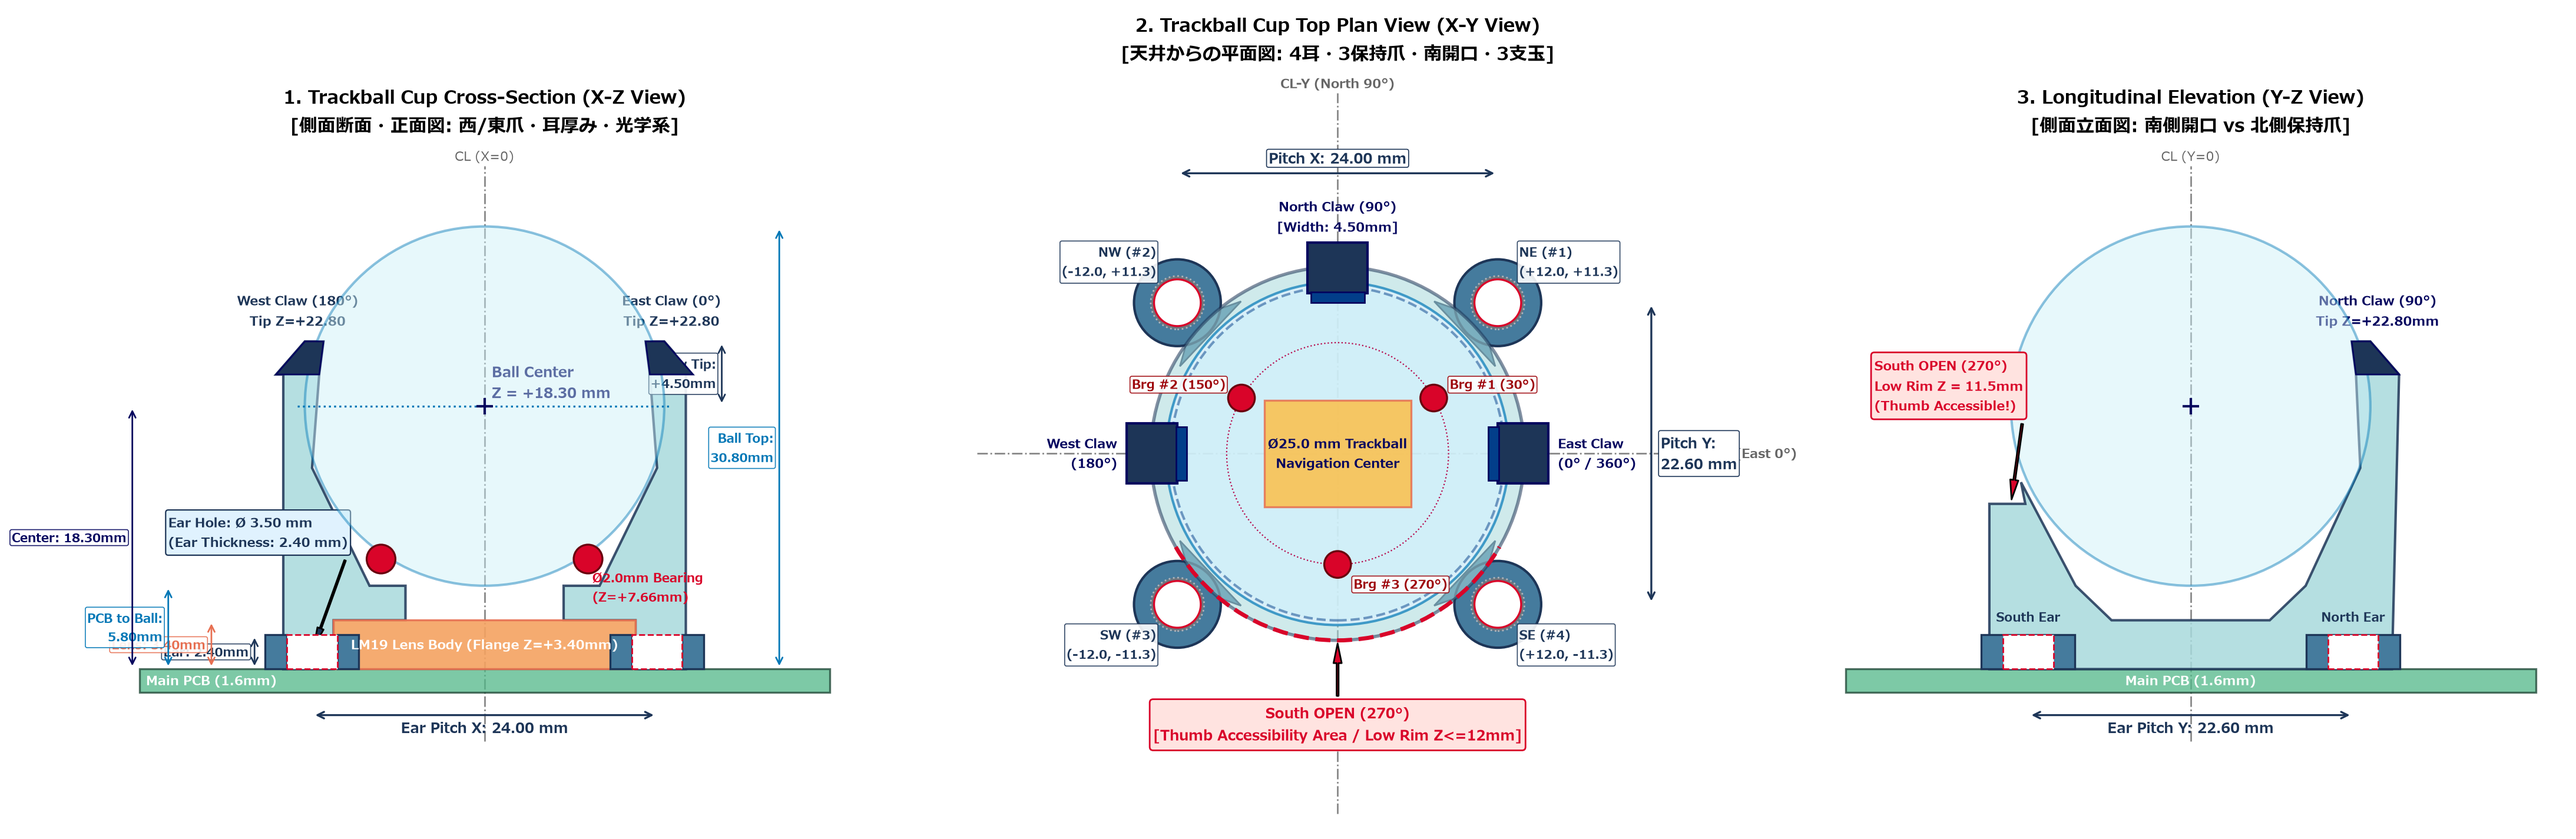
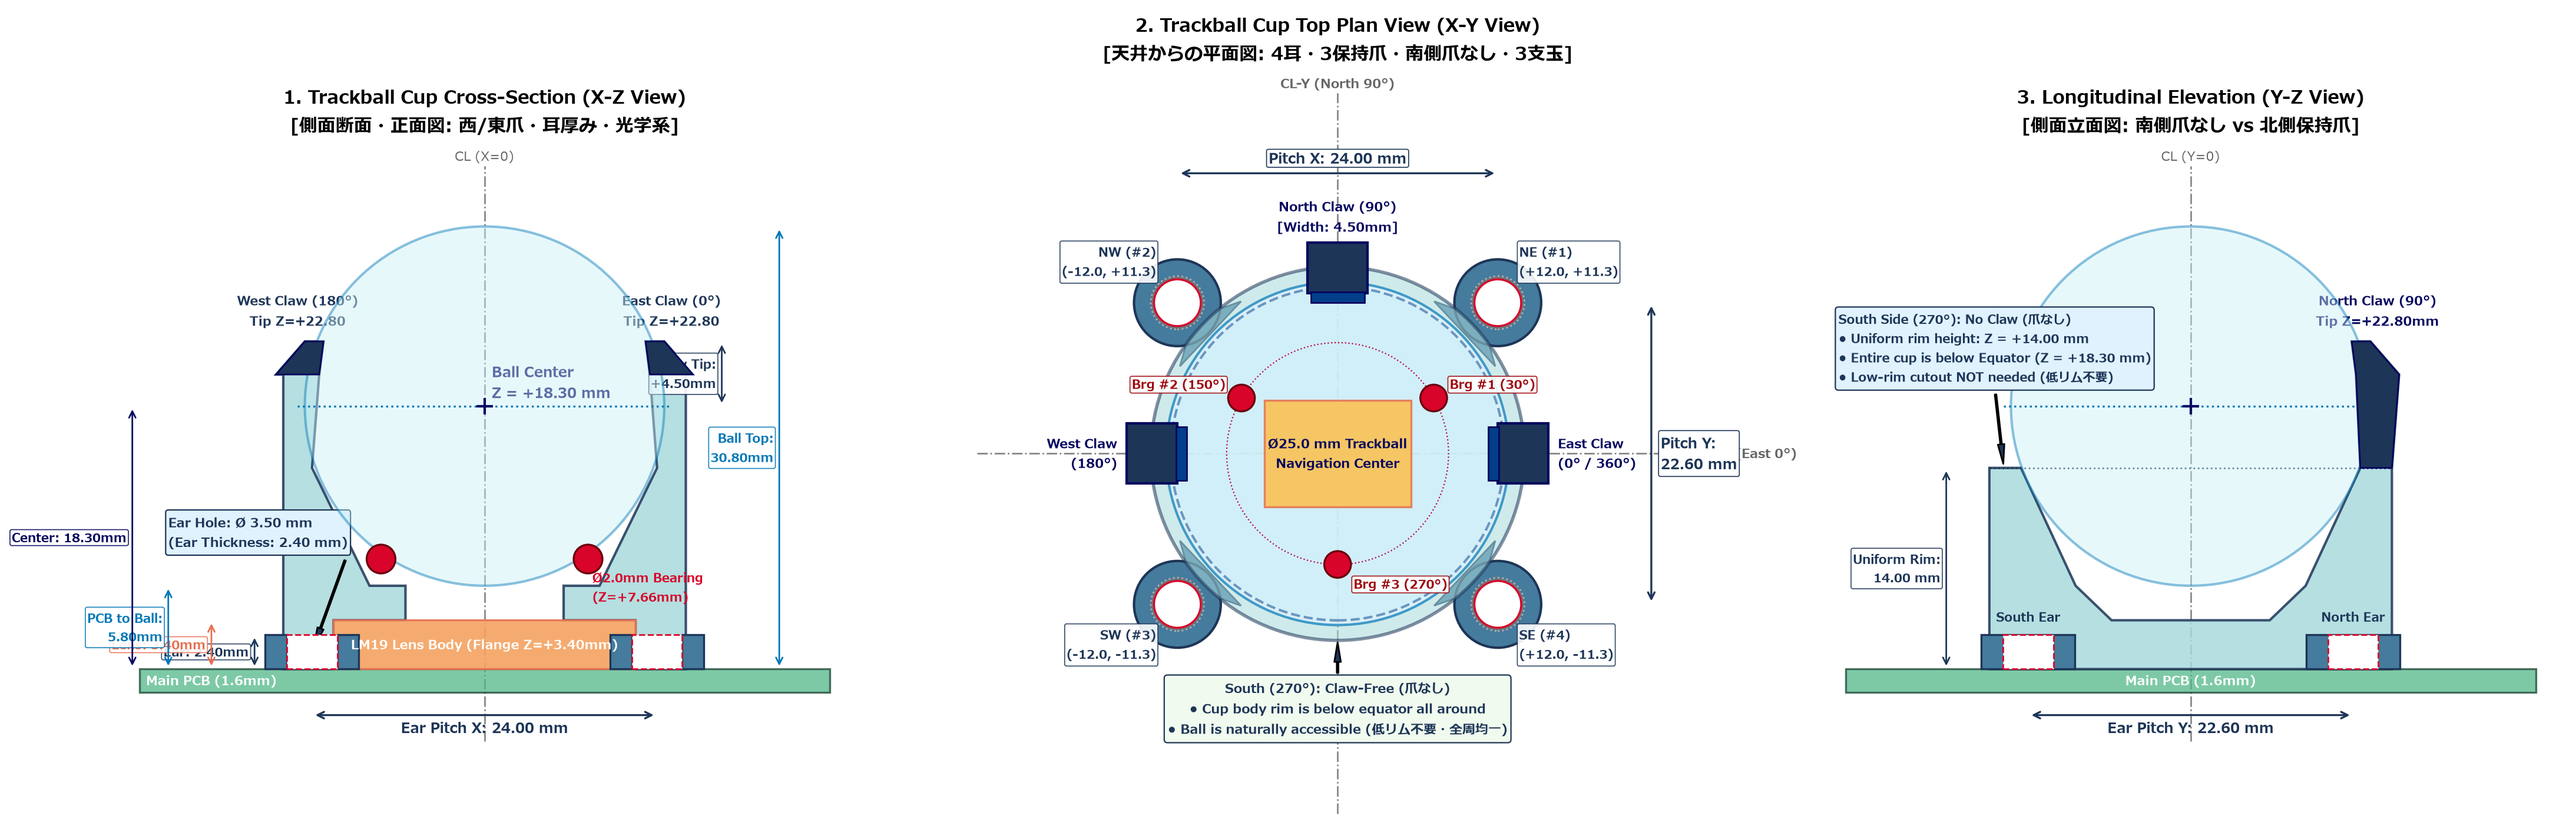
4. トラックボールカップ & 光学系詳細仕様 (Trackball & Optics)

diff --git a/scripts/generate_spec_diagrams.py b/scripts/generate_spec_diagrams.py
@@ -623,14 +623,12 @@ def generate_trackball_cup_detail_drawing():
     ax2.add_patch(lip_w)
     ax2.text(-16.5, 0, "West Claw\n(180°)", ha='right', va='center', fontsize=8, fontweight='bold', color='#03045e')
 
-    # South Open Low-Rim Thumb Area (270°)
-    south_arc = patches.Arc((0, 0), 28.0, 28.0, theta1=210, theta2=330, linewidth=2.5, color='#d90429', linestyle='--', zorder=9)
-    ax2.add_patch(south_arc)
-    ax2.annotate('South OPEN (270°)\n[Thumb Accessibility Area / Low Rim Z<=12mm]',
-                 xy=(0, -14.0), xytext=(0, -21.5),
-                 arrowprops=dict(facecolor='#d90429', shrink=0.05, width=1.2, headwidth=5),
-                 fontsize=8.5, fontweight='bold', color='#d90429', ha='center',
-                 bbox=dict(boxstyle="round,pad=0.25", fc="#ffe3e0", ec="#d90429", lw=1), zorder=10)
+    # South side (270°): No claw needed, cup body naturally sits below equator all around
+    ax2.annotate('South (270°): Claw-Free (爪なし)\n• Cup body rim is below equator all around\n• Ball is naturally accessible (低リム不要・全周均一)',
+                 xy=(0, -14.0), xytext=(0, -21.0),
+                 arrowprops=dict(facecolor='#1d3557', shrink=0.05, width=1.0, headwidth=4),
+                 fontsize=8, fontweight='bold', color='#1d3557', ha='center',
+                 bbox=dict(boxstyle="round,pad=0.25", fc="#f1faee", ec="#1d3557", lw=0.8), zorder=10)
 
     # 3 Ceramic Bearing Balls (30°, 150°, 270°) at R = 8.31mm
     brg_coords = [(7.20, 4.16, "#1 (30°)"), (-7.20, 4.16, "#2 (150°)"), (0.00, -8.31, "#3 (270°)")]
@@ -654,7 +652,7 @@ def generate_trackball_cup_detail_drawing():
     ax2.text(24.2, 0, "Pitch Y:\n22.60 mm", ha='left', va='center', fontsize=8.5, fontweight='bold', color='#1d3557',
              bbox=dict(boxstyle="round,pad=0.15", fc="#ffffff", ec="#1d3557", lw=0.6))
 
-    ax2.set_title("2. Trackball Cup Top Plan View (X-Y View)\n[天井からの平面図: 4耳・3保持爪・南開口・3支玉]", fontsize=11, fontweight='bold', pad=12)
+    ax2.set_title("2. Trackball Cup Top Plan View (X-Y View)\n[天井からの平面図: 4耳・3保持爪・南側爪なし・3支玉]", fontsize=11, fontweight='bold', pad=12)
     ax2.axis('off')
 
     # =========================================================================
@@ -686,19 +684,24 @@ def generate_trackball_cup_detail_drawing():
     ax3.add_patch(ear_n_h)
 
     # Cup Body Profile in Y-Z:
-    # Solid body sitting on PCB (Z=0) from Y=-14 to +14
-    # With South rim trimmed to Z=11.5mm, North claw rising to Z=22.80mm
+    # Cup body has UNIFORM rim height Z = 14.0 mm all around (below Equator Z = 18.30 mm)
+    # North side (+Y) has North Claw rising from Z = 14.0 to Z = 22.80 mm
+    # South side (-Y) stops cleanly at Z = 14.0 mm (No claw!)
     cup_yz_poly = patches.Polygon([
-        (-14.0, 0.0), (-14.0, 11.5), (-11.5, 11.5), (-11.8, 13.0),
+        # South uniform rim (Z = 14.0)
+        (-14.0, 0.0), (-14.0, 14.0), (-11.8, 14.0),
         # Inner bowl profile
         (-8.0, 5.8), (-5.5, 3.4), (5.5, 3.4), (8.0, 5.8),
-        # North high claw side
-        (11.8, 14.0), (11.5, 20.5), (11.2, 22.8), (12.5, 22.8), (14.5, 20.5), (14.0, 0.0)
+        # North side: uniform rim at 14.0, then claw rises to 22.80
+        (11.8, 14.0), (11.5, 20.5), (11.2, 22.8), (12.5, 22.8), (14.5, 20.5), (14.0, 14.0), (14.0, 0.0)
     ], closed=True, edgecolor='#1d3557', facecolor='#a8dadc', alpha=0.85, lw=1.5, zorder=3)
     ax3.add_patch(cup_yz_poly)
 
+    # Uniform rim dashed indicator across cup
+    ax3.plot([-14.0, 14.0], [14.0, 14.0], linestyle=':', color='#1d3557', lw=1.0, zorder=4)
+
     # North Claw highlight
-    claw_n_yz = patches.Polygon([(11.5, 20.5), (11.2, 22.8), (12.5, 22.8), (14.5, 20.5), (14.0, 20.5)],
+    claw_n_yz = patches.Polygon([(11.5, 20.5), (11.2, 22.8), (12.5, 22.8), (14.5, 20.5), (14.0, 14.0), (11.8, 14.0)],
                                 closed=True, edgecolor='#03045e', facecolor='#1d3557', zorder=5)
     ax3.add_patch(claw_n_yz)
     ax3.text(13.0, 23.5, "North Claw (90°)\nTip Z=+22.80mm", ha='center', va='bottom', fontsize=8, fontweight='bold', color='#03045e')
@@ -708,12 +711,21 @@ def generate_trackball_cup_detail_drawing():
     ax3.add_patch(ball_yz)
     ax3.plot([0], [18.30], marker='+', markersize=10, color='#03045e', mew=1.5, zorder=5)
 
-    # South Open Thumb Cutout Callout
-    ax3.annotate('South OPEN (270°)\nLow Rim Z = 11.5mm\n(Thumb Accessible!)',
-                 xy=(-12.5, 11.5), xytext=(-22.0, 18.0),
-                 arrowprops=dict(facecolor='#d90429', shrink=0.05, width=1.2, headwidth=5),
-                 fontsize=8, fontweight='bold', color='#d90429',
-                 bbox=dict(boxstyle="round,pad=0.25", fc="#ffe3e0", ec="#d90429", lw=1), zorder=10)
+    # Equator line in Y-Z
+    ax3.plot([-13, 13], [18.30, 18.30], linestyle=':', color='#0077b6', lw=1.2, zorder=4)
+
+    # South Claw-Free callout
+    ax3.annotate('South Side (270°): No Claw (爪なし)\n• Uniform rim height: Z = +14.00 mm\n• Entire cup is below Equator (Z = +18.30 mm)\n• Low-rim cutout NOT needed (低リム不要)',
+                 xy=(-13.0, 14.0), xytext=(-24.5, 20.0),
+                 arrowprops=dict(facecolor='#1d3557', shrink=0.05, width=1.0, headwidth=4),
+                 fontsize=7.5, fontweight='bold', color='#1d3557',
+                 bbox=dict(boxstyle="round,pad=0.25", fc="#e0f2fe", ec="#1d3557", lw=0.8), zorder=10)
+
+    # Rim height dimension on Y-Z
+    ax3.annotate('', xy=(-17.0, 14.0), xytext=(-17.0, 0.0),
+                 arrowprops=dict(arrowstyle='<->', color='#1d3557', lw=1.0))
+    ax3.text(-17.4, 7.0, "Uniform Rim:\n14.00 mm", ha='right', va='center', fontsize=7.5, fontweight='bold', color='#1d3557',
+             bbox=dict(boxstyle="round,pad=0.15", fc="#ffffff", ec="#1d3557", lw=0.6, alpha=0.9))
 
     # Y Pitch Dimension at bottom
     ax3.annotate('', xy=(-11.3, -3.2), xytext=(11.3, -3.2),
@@ -723,7 +735,7 @@ def generate_trackball_cup_detail_drawing():
     ax3.text(-11.3, 3.2, "South Ear", ha='center', va='bottom', fontsize=7.5, fontweight='bold', color='#1d3557')
     ax3.text(11.3, 3.2, "North Ear", ha='center', va='bottom', fontsize=7.5, fontweight='bold', color='#1d3557')
 
-    ax3.set_title("3. Longitudinal Elevation (Y-Z View)\n[側面立面図: 南側開口 vs 北側保持爪]", fontsize=11, fontweight='bold', pad=12)
+    ax3.set_title("3. Longitudinal Elevation (Y-Z View)\n[側面立面図: 南側爪なし vs 北側保持爪]", fontsize=11, fontweight='bold', pad=12)
     ax3.axis('off')
 
     plt.tight_layout()

diff --git a/docs/curcur40/case_spec.md b/docs/curcur40/case_spec.md
@@ -188,17 +188,20 @@ PCB裏面（$Z = -5.20 \, \text{mm}$）からケース内底面（$Z = -8.40 \, 
 * **北側 (North)**: **$90.0^\circ$**（上側 / USB-Cポート側）
 * **東側 (East)**: **$0.0^\circ / 360.0^\circ$**（右側 / キーボード外側）
 * **西側 (West)**: **$180.0^\circ$**（左側 / キーボード内側）
-* **南側 (South)**: **開口（爪なし・低リム）**
+* **南側 (South)**: **爪なし（全周均一リム・低リム加工不要）**
 
 #### ② 爪のプロファイルと保持メカニズム
-* **保持高さ**: 
-  * 爪の先端は $Z_{\text{rel}} = +22.80 \, \text{mm}$（グローバル $Z = +19.20 \, \text{mm}$）まで立ち上がります。
-  * ボール赤道面（$Z_{\text{rel}} = +18.30 \, \text{mm}$）より **$4.50 \, \text{mm}$ 上方** まで覆うため、球が上方向に抜けるのを確実に阻止します。
+* **カップ本体リム高さ（全周均一）**:
+  * カップ本体（すり鉢部）の外壁リム高さは、全周均一に **$Z_{\text{rel}} = +14.00 \, \text{mm}$**（グローバル $Z = +10.40 \, \text{mm}$）で水平に設計されます。
+  * ボール赤道面（$Z_{\text{rel}} = +18.30 \, \text{mm}$）より **$4.30 \, \text{mm}$ 低い位置** のみ覆うため、南側リムを特別に削る「低リム加工」は一切不要です。
+* **保持爪の立ち上がり**: 
+  * 北・東・西の3箇所のみ、均一リム（$Z_{\text{rel}} = +14.00 \, \text{mm}$）から上方へ爪が立ち上がり、先端は **$Z_{\text{rel}} = +22.80 \, \text{mm}$**（グローバル $Z = +19.20 \, \text{mm}$）に到達します。
+  * ボール赤道面（$Z_{\text{rel}} = +18.30 \, \text{mm}$）より **$4.50 \, \text{mm}$ 上方** まで包み込むため、球の上方向への脱落を確実に阻止します。
 * **アーム構造**:
-  * 爪の幅は **$4.0 \sim 5.0 \, \text{mm}$** のスリムなリブ構造とし、指やキーキャップへの干渉を排除。
+  * 爪の幅は **$4.50 \, \text{mm}$** のスリムなリブ構造とし、指やキーキャップへの干渉を排除。
   * 適度なしなり（弾性）を持たせ、球を押し込む際（スナップイン）に「パチン」と気持ちよく嵌まり、外す際は適度な力で引き抜ける設計とします。
-* **南側親指エリアの開放**:
-  * 南側（$270^\circ$ 付近）のカップリムは赤道より低い位置（$Z_{\text{rel}} \le 12.0 \, \text{mm}$）までカットし、親指の腹が球の広い面積に無理なくフィットする形状とします。
+* **南側親指エリアの開放（自然なアクセス性）**:
+  * 南側（$270^\circ$ 付近）には爪を設けず、カップ本体自体が赤道より低い位置にあるため、ボールの上半分（赤道より上）が自然に広く露出し、親指の腹が無理なくフィットします。
 
 ---
 
